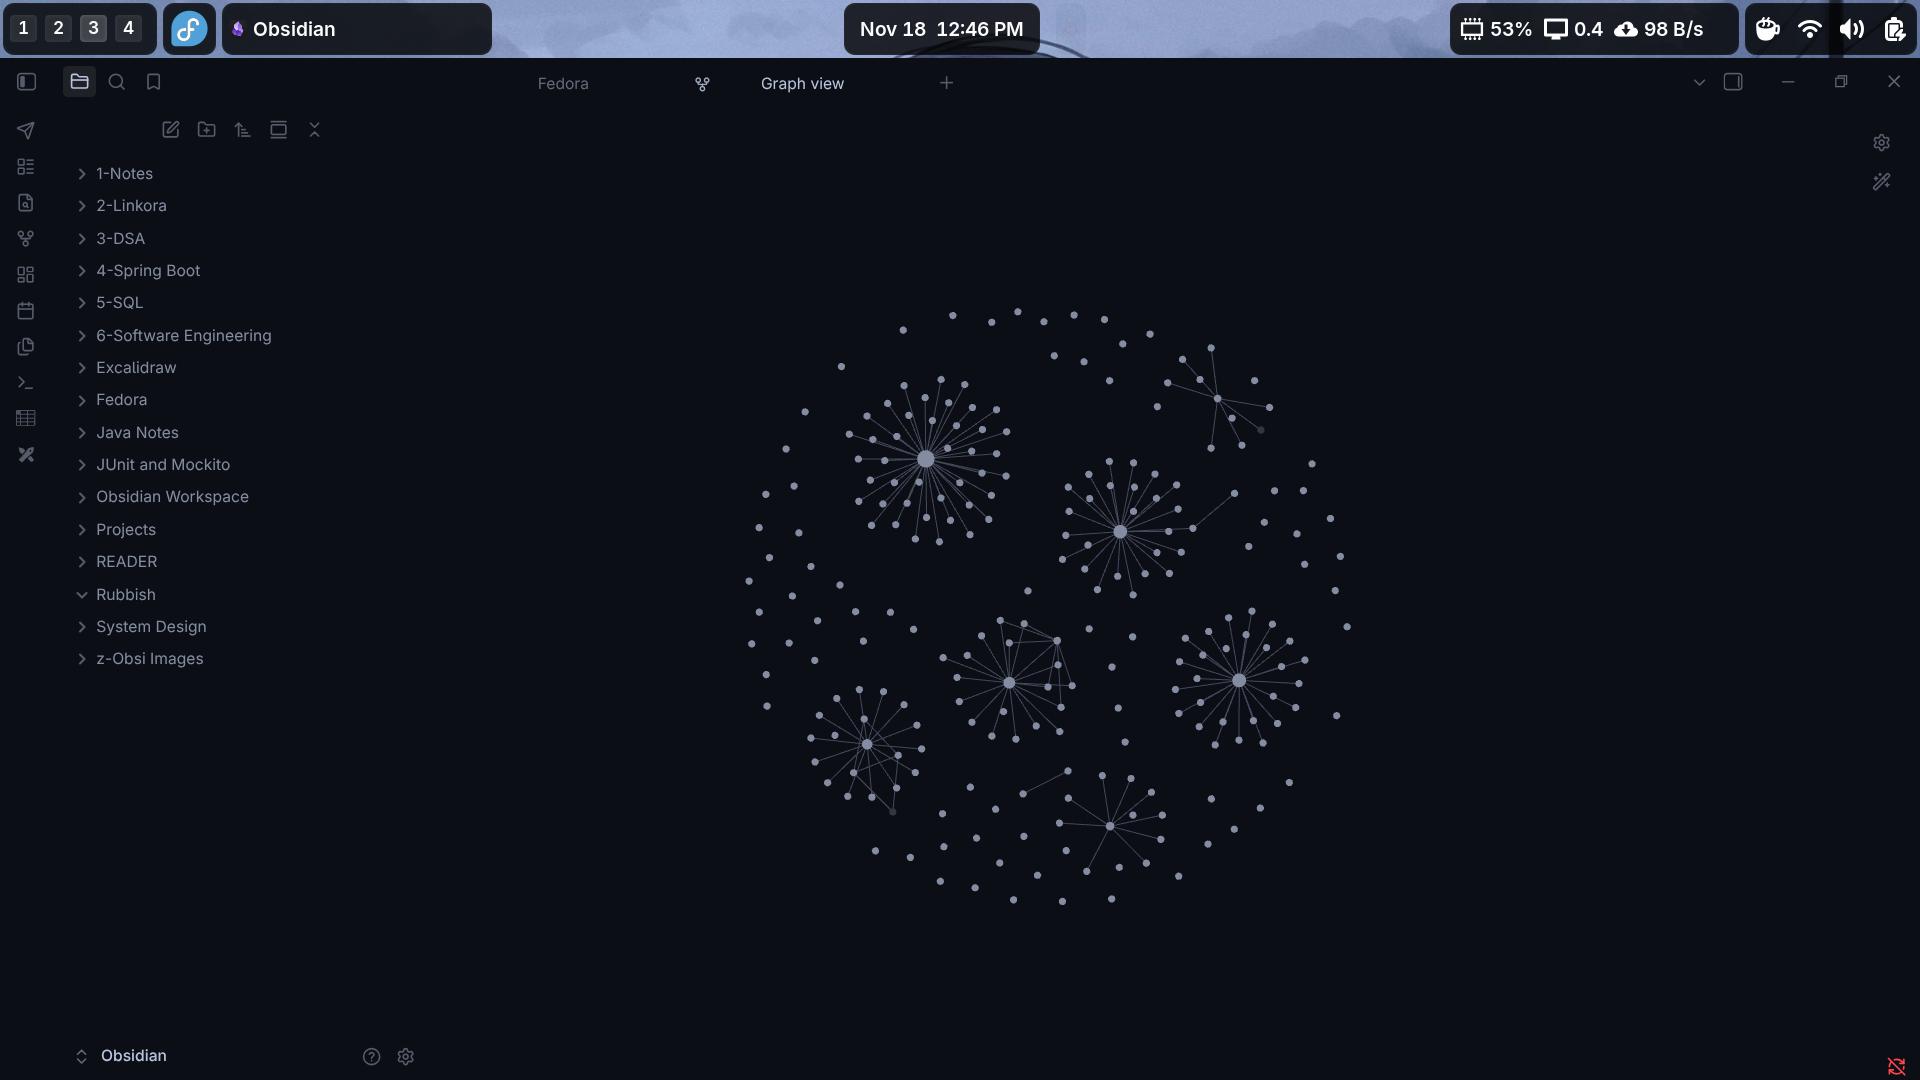
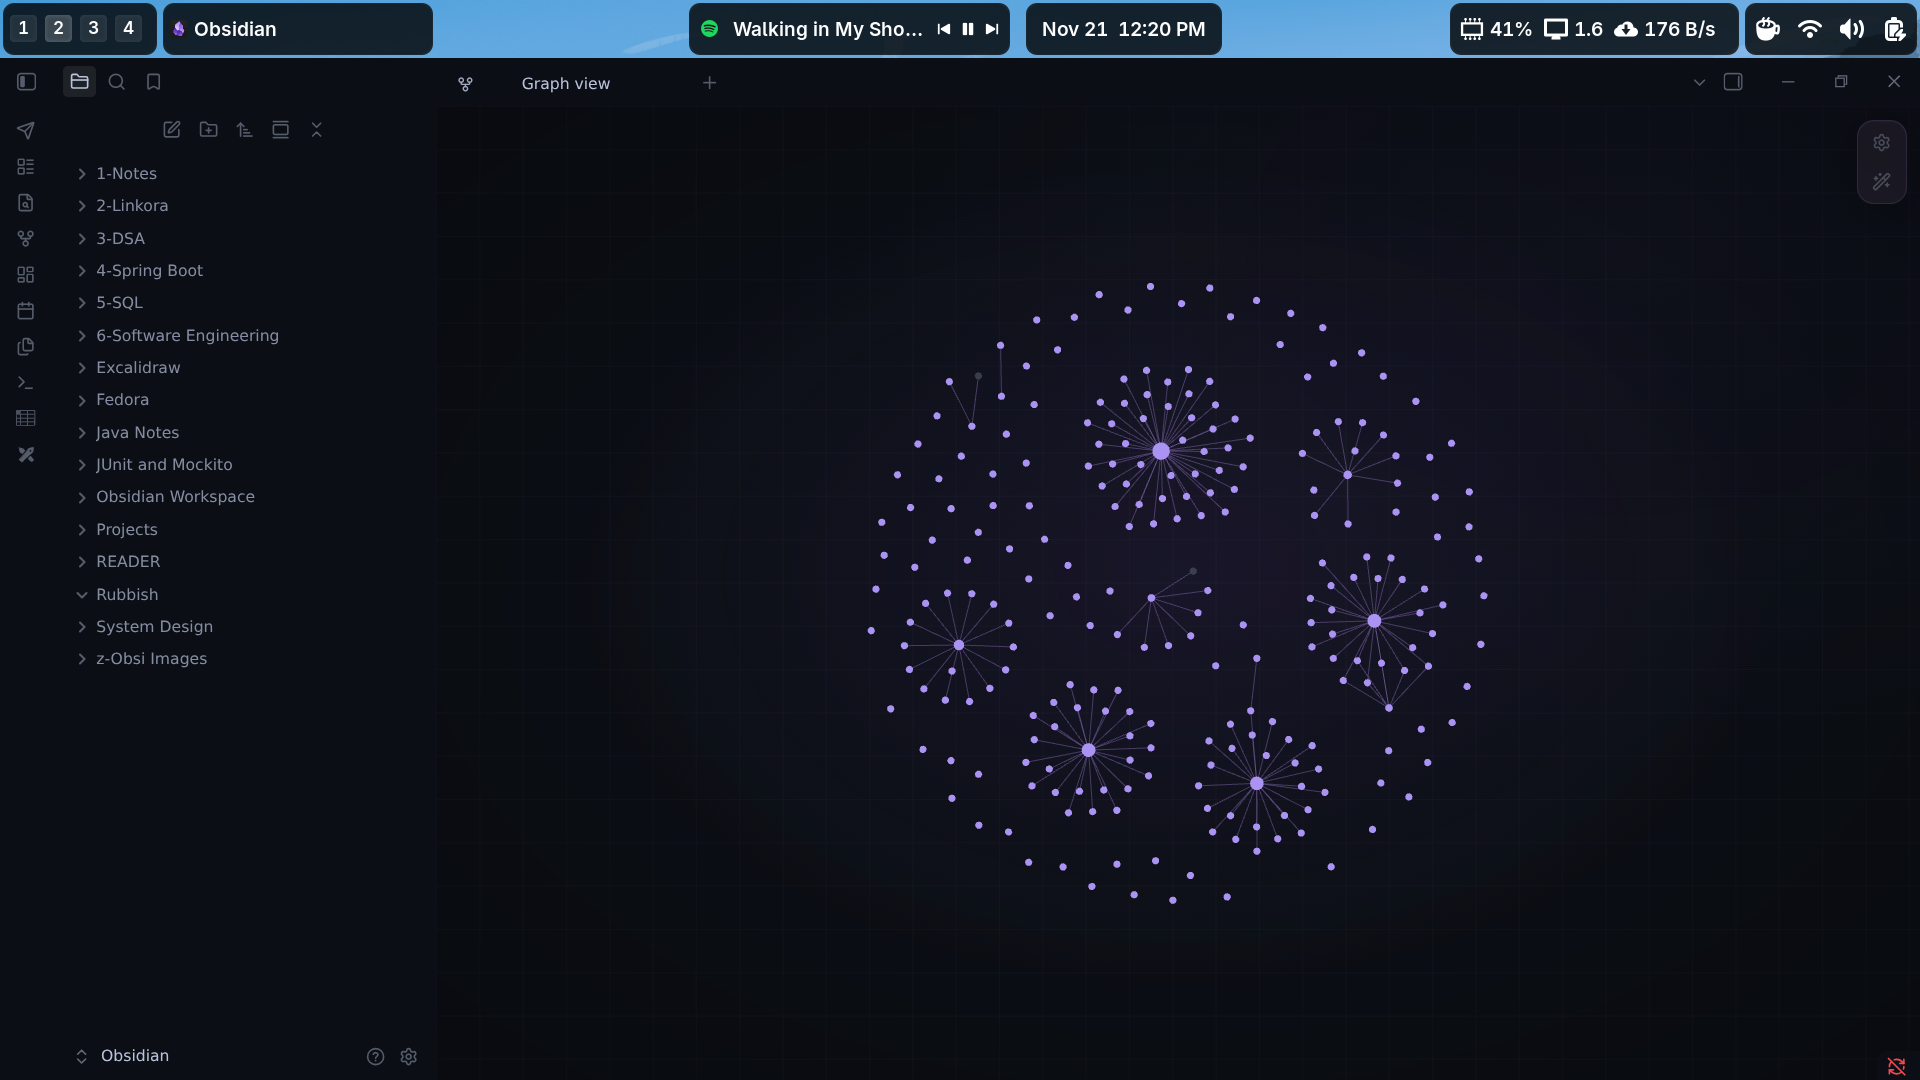
added obsidian graph custom css

diff --git a/Obsidian Config/graph-custom.css b/Obsidian Config/graph-custom.css
@@ -1,0 +1,190 @@
+
+/* ==========================================
+   OBSIDIAN GRAPH — NEURAL OBSERVATORY
+   Graph-only customization
+   ========================================== */
+
+/* 1. Graph color palette */
+
+.graph-view.color-fill {
+    color: #b39aff;
+    opacity: 0.95;
+}
+
+.graph-view.color-fill-highlight {
+    color: #f0d9ff;
+}
+
+.graph-view.color-line {
+    color: #8266b0;
+    opacity: 0.48;
+}
+
+.graph-view.color-line-highlight {
+    color: #d7b5ff;
+}
+
+.graph-view.color-text {
+    color: #c9b8e8;
+}
+
+.graph-view.color-text-highlight {
+    color: #ffffff;
+}
+
+.graph-view.color-arrow {
+    color: #b39aff;
+}
+
+
+/* 2. Observatory background */
+
+.workspace-leaf-content[data-type="graph"]
+.view-content {
+    position: relative;
+    isolation: isolate;
+    overflow: hidden;
+
+    background-color: var(--background-primary);
+
+    background-image:
+        radial-gradient(
+            ellipse at 50% 48%,
+            rgba(145, 95, 220, 0.085),
+            transparent 58%
+        ),
+        radial-gradient(
+            ellipse at 80% 15%,
+            rgba(115, 75, 190, 0.045),
+            transparent 45%
+        ),
+        linear-gradient(
+            rgba(160, 140, 200, 0.035) 1px,
+            transparent 1px
+        ),
+        linear-gradient(
+            90deg,
+            rgba(160, 140, 200, 0.035) 1px,
+            transparent 1px
+        );
+
+    background-size:
+        100% 100%,
+        100% 100%,
+        36px 36px,
+        36px 36px;
+}
+
+
+/* 3. Soft atmospheric vignette */
+
+.workspace-leaf-content[data-type="graph"]
+.view-content::after {
+    content: "";
+    position: absolute;
+    inset: 0;
+    z-index: 1;
+    pointer-events: none;
+
+    background:
+        radial-gradient(
+            ellipse at center,
+            transparent 45%,
+            rgba(0, 0, 0, 0.22) 100%
+        );
+}
+
+
+/* 4. Graph canvas */
+
+.workspace-leaf-content[data-type="graph"]
+.graph-view-container {
+    position: relative;
+    z-index: 0;
+}
+
+/* Keep canvas transparent so the grid is visible */
+
+.workspace-leaf-content[data-type="graph"]
+.graph-view-container canvas {
+    background: transparent !important;
+}
+
+
+/* 5. Floating glass controls */
+
+.workspace-leaf-content[data-type="graph"]
+.graph-controls {
+    background: rgba(35, 32, 44, 0.82);
+    border: 1px solid rgba(180, 145, 245, 0.16);
+    border-radius: 14px;
+
+    box-shadow:
+        0 8px 30px rgba(0, 0, 0, 0.22),
+        inset 0 1px rgba(255, 255, 255, 0.035);
+
+    backdrop-filter: blur(16px);
+}
+
+
+/* 6. Buttons */
+
+.workspace-leaf-content[data-type="graph"]
+.graph-controls .clickable-icon {
+    border-radius: 9px;
+    transition:
+        background 180ms ease,
+        color 180ms ease,
+        transform 180ms ease;
+}
+
+.workspace-leaf-content[data-type="graph"]
+.graph-controls .clickable-icon:hover {
+    color: #d7b5ff;
+    background: rgba(165, 120, 230, 0.16);
+    transform: scale(1.08);
+}
+
+
+/* 7. Graph settings panel */
+
+.workspace-leaf-content[data-type="graph"]
+.graph-controls.is-expanded {
+    border: 1px solid rgba(180, 145, 245, 0.22);
+    box-shadow:
+        0 15px 45px rgba(0, 0, 0, 0.3);
+}
+
+
+/* 8. Graph sliders */
+
+.workspace-leaf-content[data-type="graph"]
+input[type="range"] {
+    accent-color: #a78bfa;
+}
+
+
+/* 9. Graph search input */
+
+.workspace-leaf-content[data-type="graph"]
+input[type="search"] {
+    border-radius: 9px;
+    border: 1px solid rgba(180, 145, 245, 0.18);
+    background: var(--background-primary);
+}
+
+.workspace-leaf-content[data-type="graph"]
+input[type="search"]:focus {
+    border-color: #a78bfa;
+    box-shadow: 0 0 0 2px rgba(167, 139, 250, 0.12);
+}
+
+
+/* 10. Reduced motion support */
+
+@media (prefers-reduced-motion: reduce) {
+    .workspace-leaf-content[data-type="graph"]
+    .graph-controls .clickable-icon {
+        transition: none;
+    }
+}
